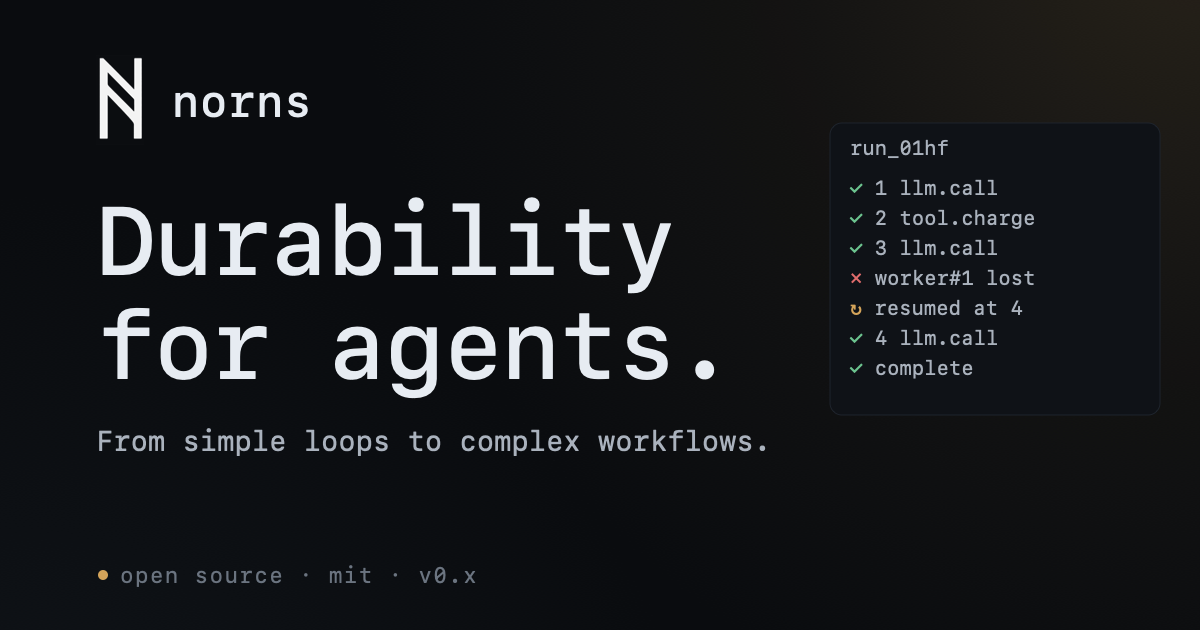
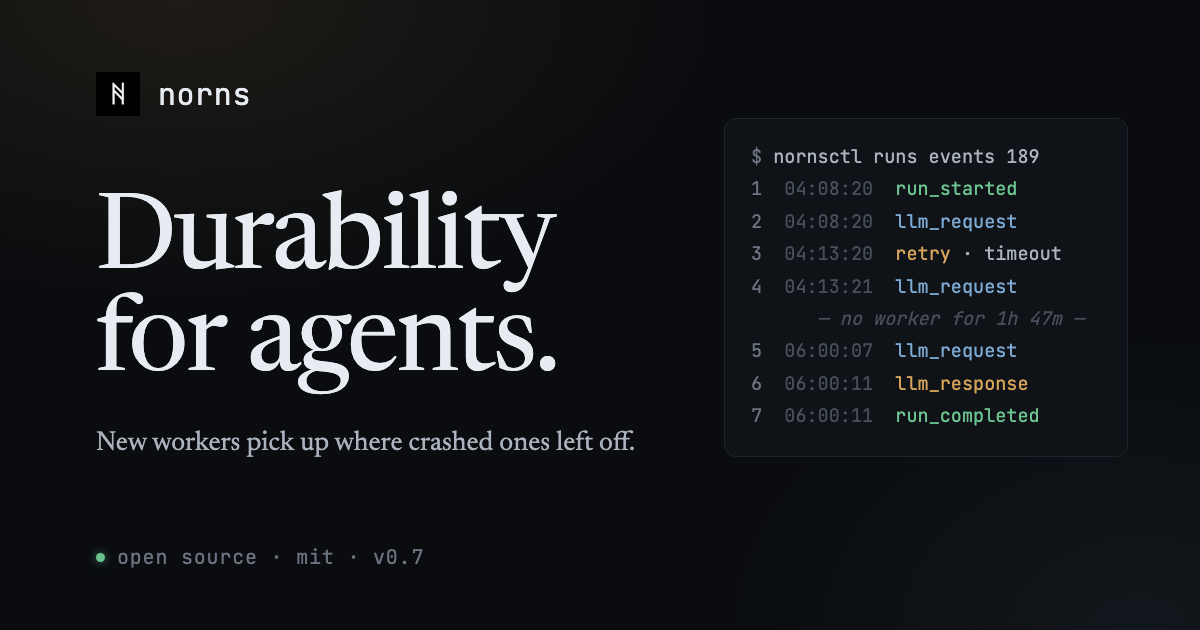
Social card shows the real run too
The card still carried the fake terminal and the old mono title. It is
now an HTML page rendered with headless Chrome (regeneration command in
the file), set in the same type as the site, with run 189 in the panel.
The SVG it replaced was the only source and is gone. The hero caption
is shortened while here.

Claude-Session: https://claude.ai/code/session_01F7Sqyh45SeMLdx2mPdjoMw

diff --git a/assets/og.html b/assets/og.html
@@ -1,0 +1,56 @@
+<!doctype html>
+<!-- Source for og.png. Regenerate with:
+     "/Applications/Google Chrome.app/Contents/MacOS/Google Chrome" --headless=new --disable-gpu \
+       --hide-scrollbars --force-device-scale-factor=1 --window-size=1200,630 --virtual-time-budget=8000 \
+       --screenshot=assets/og.png file://$PWD/assets/og.html -->
+<html lang="en">
+<head>
+<meta charset="utf-8" />
+<link rel="preconnect" href="https://fonts.googleapis.com" />
+<link rel="preconnect" href="https://fonts.gstatic.com" crossorigin />
+<link rel="stylesheet" href="https://fonts.googleapis.com/css2?family=IBM+Plex+Sans:wght@400;500&family=JetBrains+Mono:wght@400;500&family=Newsreader:ital,opsz,wght@0,6..72,400;1,6..72,400&display=swap" />
+<style>
+  html, body { margin: 0; width: 1200px; height: 630px; overflow: hidden; background: #0a0c0f; }
+  .card {
+    position: relative; width: 1200px; height: 630px; box-sizing: border-box;
+    padding: 72px 96px; color: #e7ecf2;
+    background:
+      radial-gradient(900px 500px at 15% 0%, rgba(212,164,90,0.10), transparent 60%),
+      radial-gradient(700px 500px at 95% 100%, rgba(124,168,209,0.07), transparent 60%),
+      #0a0c0f;
+    font-family: "IBM Plex Sans", system-ui, sans-serif;
+  }
+  .brand { display: flex; align-items: center; gap: 18px; }
+  .brand img { width: 44px; height: 44px; filter: invert(1); }
+  .brand span { font-family: "JetBrains Mono", monospace; font-size: 30px; letter-spacing: 0.02em; }
+  h1 { font-family: "Newsreader", Georgia, serif; font-weight: 400; font-size: 104px; line-height: 0.98;
+       letter-spacing: -0.015em; margin: 78px 0 28px; }
+  .lede { font-family: "Newsreader", Georgia, serif; font-size: 27px; line-height: 1.3; color: #aab2bd; max-width: 640px; margin: 0; }
+  .eyebrow { position: absolute; left: 96px; bottom: 60px; font-family: "JetBrains Mono", monospace;
+             font-size: 20px; color: #6b7480; letter-spacing: 0.04em; display: flex; align-items: center; gap: 12px; }
+  .eyebrow i { width: 9px; height: 9px; border-radius: 50%; background: #6cc38f; box-shadow: 0 0 10px rgba(108,195,143,.6); }
+  .log { position: absolute; right: 72px; top: 118px; width: 404px; box-sizing: border-box; padding: 22px 26px 24px;
+         background: #0f1217; border: 1px solid #1e242d; border-radius: 12px;
+         font-family: "JetBrains Mono", monospace; font-size: 18.5px; line-height: 1.75; color: #aab2bd; white-space: pre; }
+  .c { color: #6b7480; } .d { color: #464f5a; } .ok { color: #6cc38f; } .info { color: #7ca8d1; }
+  .warn { color: #d4a45a; } .acc { color: #d4a45a; } .note { color: #464f5a; font-style: italic; }
+</style>
+</head>
+<body>
+<div class="card">
+  <div class="brand"><img src="norns-logo.png" alt="" /><span>norns</span></div>
+  <h1>Durability<br />for agents.</h1>
+  <p class="lede">New workers pick up where crashed ones left off.</p>
+  <div class="eyebrow"><i></i>open source · mit · v0.7</div>
+  <div class="log"><span class="c">$</span> nornsctl runs events 189
+<span class="c">1</span>  <span class="d">04:08:20</span>  <span class="ok">run_started</span>
+<span class="c">2</span>  <span class="d">04:08:20</span>  <span class="info">llm_request</span>
+<span class="c">3</span>  <span class="d">04:13:20</span>  <span class="warn">retry</span> · timeout
+<span class="c">4</span>  <span class="d">04:13:21</span>  <span class="info">llm_request</span>
+<span class="note">      — no worker for 1h 47m —</span>
+<span class="c">5</span>  <span class="d">06:00:07</span>  <span class="info">llm_request</span>
+<span class="c">6</span>  <span class="d">06:00:11</span>  <span class="acc">llm_response</span>
+<span class="c">7</span>  <span class="d">06:00:11</span>  <span class="ok">run_completed</span></div>
+</div>
+</body>
+</html>

diff --git a/index.html b/index.html
@@ -209,10 +209,9 @@
 <div class="term-line"><span class="tm-muted">7</span>  <span class="tm-dim">06:00:11</span>  <span class="tm-ok">run_completed</span></div>
           </div>
           <figcaption class="terminal__foot">
-            A real run, 2026-10-04 UTC: a probe message sent to Mimir while
-            its worker was offline. Core timed the first dispatch out at five
-            minutes, queued it again, and the run finished when a worker came
-            back. Nobody retried anything.
+            A real run from 2026-10-04: a test message sent to Mimir while
+            its worker was offline. Norns held it, and finished the run when
+            a worker came back.
           </figcaption>
         </figure>
       </section>
